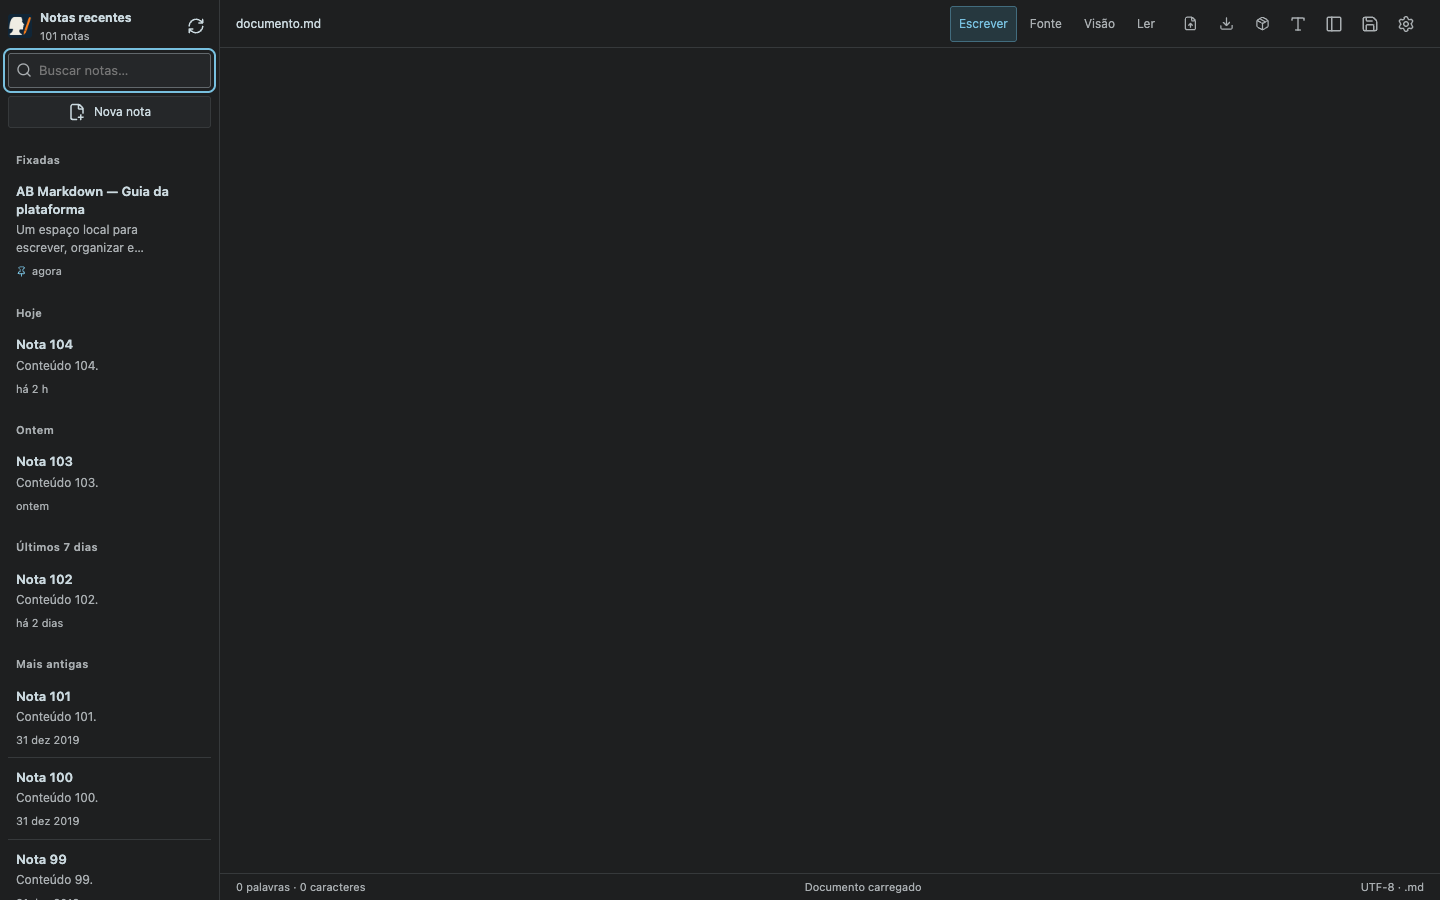
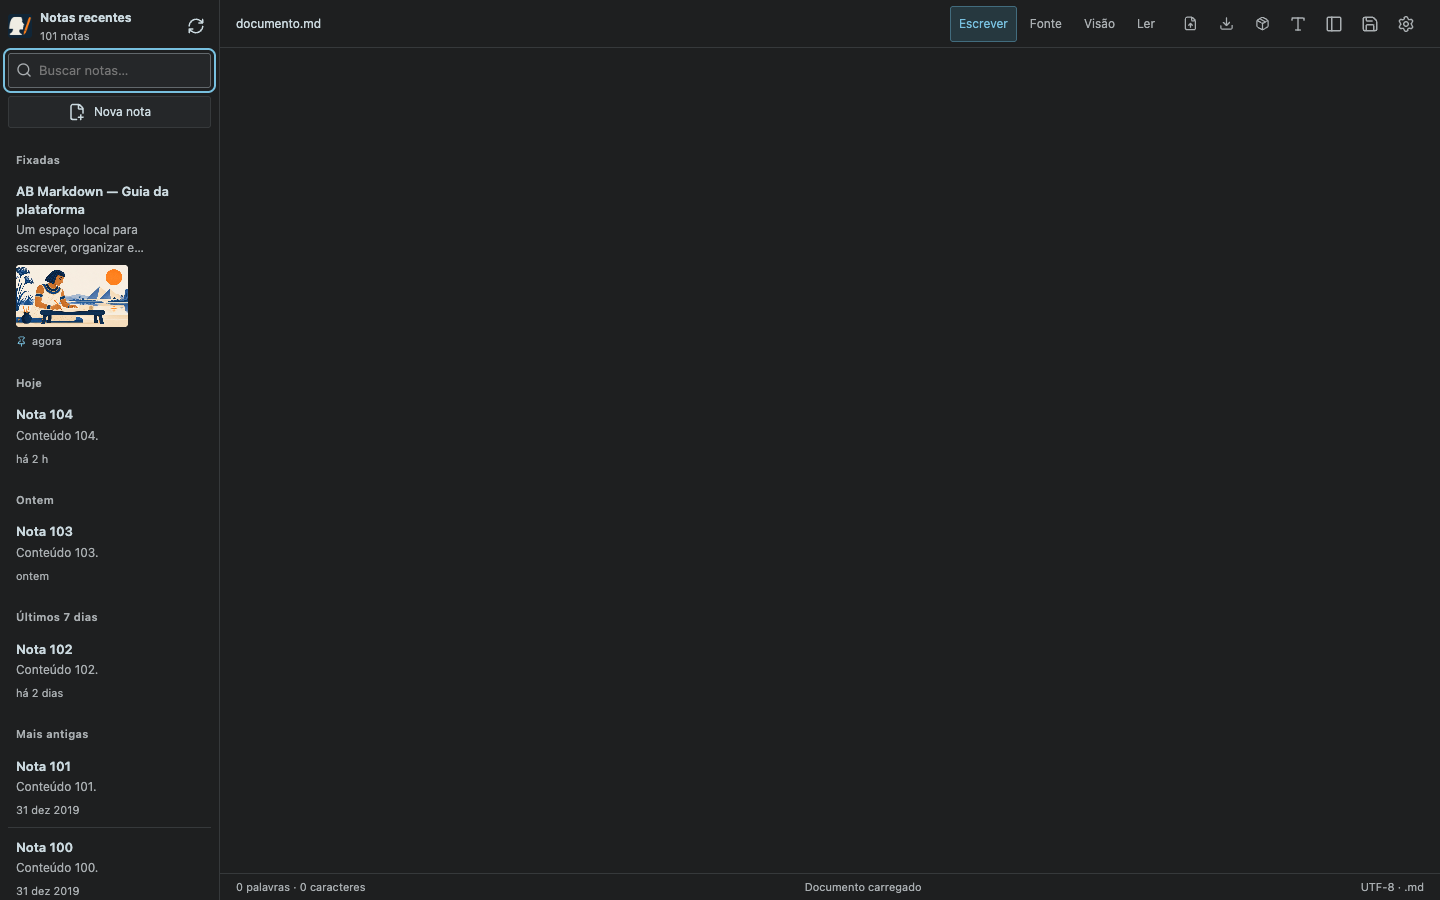
feat: add welcome illustration and lazy note image previews

Changed region(s): [[0.0, 0.28, 0.0938, 0.9956]]

diff --git a/tests/sidebar.spec.ts b/tests/sidebar.spec.ts
@@ -17,7 +17,7 @@ for(const viewport of [{name:'desktop',width:1440,height:900},{name:'mobile',wid
    const brand=page.locator('.notes-logo');await expect(brand).toBeVisible();await expect(brand).toHaveAttribute('src','/icons/profile-v3/scribe-64.png');
    expect(await brand.evaluate((el:HTMLImageElement)=>el.complete&&el.naturalWidth===64)).toBe(true);
    const favicon=page.locator('link[rel="icon"][type="image/png"]');await expect(favicon).toHaveAttribute('href','/icons/profile-v3/scribe-32.png');expect((await page.request.get((await favicon.getAttribute('href'))!)).status()).toBe(200);
-   const sidebar=page.getByRole('complementary',{name:'Notas recentes'});const recent=sidebar.locator('nav section:not([aria-label="Fixadas"])');const pinned=sidebar.getByRole('region',{name:'Fixadas',exact:true});await expect(pinned.locator('strong').first()).toHaveText('AB Markdown — Guia da plataforma');await expect(recent.locator('li')).toHaveCount(100);await expect(recent.locator('strong').first()).toHaveText('Nota 104');await expect(recent.locator('strong').last()).toHaveText('Nota 5');
+   const sidebar=page.getByRole('complementary',{name:'Notas recentes'});const recent=sidebar.locator('nav section:not([aria-label="Fixadas"])');const pinned=sidebar.getByRole('region',{name:'Fixadas',exact:true});await expect(pinned.locator('strong').first()).toHaveText('AB Markdown — Guia da plataforma');await expect(pinned.locator('img')).toBeVisible();expect(await pinned.locator('img').evaluate((el:HTMLImageElement)=>el.complete&&el.naturalWidth>0)).toBe(true);await expect(recent.locator('li')).toHaveCount(100);await expect(recent.locator('strong').first()).toHaveText('Nota 104');await expect(recent.locator('strong').last()).toHaveText('Nota 5');
    await sidebar.getByRole('button',{name:'Fixar note-104.md',exact:true}).click();await expect(pinned.locator('strong')).toHaveText(['AB Markdown — Guia da plataforma','Nota 104']);
    await sidebar.getByRole('button',{name:'Desafixar note-104.md',exact:true}).click();await expect(pinned.locator('strong')).toHaveCount(1);
    await expect(sidebar.getByRole('heading',{name:'Hoje',exact:true})).toBeVisible();await expect(sidebar.getByRole('heading',{name:'Ontem',exact:true})).toBeVisible();await expect(sidebar.getByRole('heading',{name:'Últimos 7 dias',exact:true})).toBeVisible();
@@ -32,7 +32,7 @@ for(const viewport of [{name:'desktop',width:1440,height:900},{name:'mobile',wid
    await expect(recent.locator('.note-preview').first()).toContainText('Conteúdo 104');
    expect(await page.evaluate(()=>document.documentElement.scrollHeight<=innerHeight)).toBe(true);
    await page.screenshot({path:`docs/evidence/${viewport.name}-recent-notes-dark.png`,fullPage:true});
-   await pinned.getByRole('button',{name:'AB-Markdown-Guia.md',exact:true}).click();await page.getByRole('button',{name:'Ler',exact:true}).click();await expect(page.locator('article')).toContainText('Roadmap previsto');
+   await pinned.getByRole('button',{name:'AB-Markdown-Guia.md',exact:true}).click();await page.getByRole('button',{name:'Ler',exact:true}).click();await expect(page.locator('article')).toContainText('Roadmap previsto');await expect(page.locator('article img')).toBeVisible();expect(await page.locator('article img').evaluate((el:HTMLImageElement)=>el.complete&&el.naturalWidth>0)).toBe(true);
    expect(await page.locator('article').evaluate(el=>getComputedStyle(el).fontFamily)).not.toContain('mono');
    await page.screenshot({path:`docs/evidence/${viewport.name}-guide-reading-dark.png`,fullPage:true});
    if(viewport.name==='mobile')await page.getByRole('button',{name:'Mostrar notas recentes'}).click();

diff --git a/src/main.tsx b/src/main.tsx
@@ -2,6 +2,7 @@ import { StrictMode, useCallback, useEffect, useRef, useState } from 'react';
 import { createRoot } from 'react-dom/client';
 import { FolderGit2, FolderOpen, Save, Upload, Sun, Moon, FilePlus2, Settings, X, Download, CloudOff, PanelLeft, FileText, RefreshCw, Search, Pin, PinOff } from 'lucide-react';
 import { MarkdownWorkbench } from './components/Markdown/MarkdownWorkbench';
+import { NoteThumbnail } from './NoteThumbnail';
 import { noteGroup, shortNoteDate } from './lib/noteDates';
 import { usePwa } from './usePwa';
 import { authorizedFetch } from './lib/session';
@@ -20,6 +21,8 @@ interface RecentNote {
   /** Markdown heading and short plain-text preview for the note list. */
   title?: string;
   preview?: string;
+  /** Whether the note contains a local image eligible for a lazy thumbnail. */
+  hasImage?: boolean;
 }
 interface NoteLibrary {
   /** Manually ordered pinned notes for the current checkout. */
@@ -391,7 +394,7 @@ function App() {
       {!repository.repository && <p className="notes-empty">Conecte um repositório nas configurações para listar suas notas.</p>}
       {repository.repository && !recentNotes.length && !pinnedNotes.length && <p className="notes-empty">{offline ? 'Abra o aplicativo local para carregar a lista.' : 'Nenhuma nota Markdown encontrada.'}</p>}
       <nav aria-label="100 notas mais recentes">{noteGroups.map(group => <section className="note-group" key={group.label} aria-label={group.label}><h3>{group.label}</h3><ol>{group.notes.map(note => <li className="note-row" key={note.name} data-note={note.name}>
-        <button className="open-note" type="button" disabled={busy || !draftReady || offline} aria-current={name === note.name && version ? 'page' : undefined} title={note.name} aria-label={note.name} onClick={() => void openNote(note.name)}><span><strong>{note.title || note.name.split('/').at(-1)}</strong>{note.preview && <span className="note-preview">{note.preview}</span>}<time dateTime={note.modifiedAt} title={new Date(note.modifiedAt).toLocaleString('pt-BR')}>{group.pinned && <Pin size={11} aria-label="Nota fixada"/>}{shortNoteDate(note.modifiedAt, dateClock)}</time></span></button>
+        <button className="open-note" type="button" disabled={busy || !draftReady || offline} aria-current={name === note.name && version ? 'page' : undefined} title={note.name} aria-label={note.name} onClick={() => void openNote(note.name)}><span><strong>{note.title || note.name.split('/').at(-1)}</strong>{note.preview && <span className="note-preview">{note.preview}</span>}{note.hasImage && <NoteThumbnail repository={repository.repository} name={note.name} modifiedAt={note.modifiedAt}/>}<time dateTime={note.modifiedAt} title={new Date(note.modifiedAt).toLocaleString('pt-BR')}>{group.pinned && <Pin size={11} aria-label="Nota fixada"/>}{shortNoteDate(note.modifiedAt, dateClock)}</time></span></button>
         <button className="pin-note" type="button" disabled={busy || offline} aria-label={`${group.pinned ? 'Desafixar' : 'Fixar'} ${note.name}`} title={group.pinned ? 'Desafixar nota' : 'Fixar nota'} onClick={() => void togglePin(note, !group.pinned)}>{group.pinned ? <PinOff size={14}/> : <Pin size={14}/>}</button>
       </li>)}</ol></section>)}</nav>
     </aside>}

diff --git a/src/NoteThumbnail.tsx b/src/NoteThumbnail.tsx
@@ -1,0 +1,36 @@
+import {useEffect, useRef, useState} from 'react';
+import {authorizedFetch} from './lib/session';
+interface Props {
+  /** Checkout identity prevents reusing an image after switching repositories. */
+  repository: string | null;
+  /** Safe repository-relative Markdown filename. */
+  name: string;
+  /** Note revision timestamp invalidates the preview after editing. */
+  modifiedAt: string;
+}
+/** Fetch private image bytes only as the note enters the independently scrolling list. */
+export function NoteThumbnail({repository, name, modifiedAt}: Props) {
+  const host=useRef<HTMLSpanElement>(null);
+  const [source,setSource]=useState('');
+  useEffect(()=>{
+    let active=true, objectUrl='';
+    setSource('');
+    const observer=new IntersectionObserver(entries=>{
+      if(!entries.some(entry=>entry.isIntersecting))return;
+      observer.disconnect();
+      void(async()=>{
+        try {
+          const response=await authorizedFetch(`thumbnail?name=${encodeURIComponent(name)}`);
+          if(!response.ok)return;
+          const image=await response.json();if(!image||!active)return;
+          const data=Uint8Array.from(atob(image.data),char=>char.charCodeAt(0));
+          objectUrl=URL.createObjectURL(new Blob([data],{type:image.mime}));
+          setSource(objectUrl);
+        }catch { /* Missing/offline images leave the note title and text available. */ }
+      })();
+    },{rootMargin:'120px'});
+    if(host.current)observer.observe(host.current);
+    return()=>{active=false;observer.disconnect();if(objectUrl)URL.revokeObjectURL(objectUrl);};
+  },[repository,name,modifiedAt]);
+  return <span ref={host} className="note-thumbnail">{source&&<img src={source} width="112" height="62" alt="Prévia da imagem da nota"/>}</span>;
+}

diff --git a/src/style.css b/src/style.css
@@ -150,3 +150,6 @@ body { font-family: var(--font-ui); }
 @media (hover: none) { .notes-sidebar nav .pin-note { opacity: 1; } }
 @media (max-width: 899px) { .notes-sidebar nav .pin-note { opacity: 1; width: 44px; min-height: 44px; } .notes-sidebar nav .open-note { padding-right: 44px; } }
 .notes-sidebar nav .open-note time svg { display: inline-block; margin: 0; color: var(--cyan); }
+.note-thumbnail { display: block; width: 112px; max-width: 100%; margin-top: 8px; }
+.note-thumbnail:empty { min-height: 1px; }
+.note-thumbnail img { display: block; width: 112px; max-width: 100%; height: 62px; object-fit: cover; border-radius: var(--radius-sm); }

diff --git a/docs/VALIDATION.md b/docs/VALIDATION.md
@@ -10,7 +10,7 @@ Ambiente: macOS Darwin 25.6.0, Apple Silicon. Aplicação instalada em `~/Applic
 - Abertura pelo ícone, resposta saudável do servidor em loopback e carregamento do editor.
 - Seleção de pasta real no diálogo nativo do macOS; retorno do caminho confirmado.
 - Cancelamento do diálogo pela API da aplicação instalada: HTTP 200, `directory: null`.
-- 25 testes HTTP com Git real: sessão/origem/host, conexão e listagem, texto/imagens, conflitos, caminhos inválidos/symlinks, gravações concorrentes, commit seletivo e push, proteção de stage, rejeição de credenciais na URL e clonagem HTTPS com CA local; save/commit/push automático, ausência de commits vazios, retry após falha de push sem commit duplicado, recuperação de hook, primeiro upstream e preferências persistidas em novo processo.
+- 27 testes HTTP com Git real: sessão/origem/host, conexão e listagem, texto/imagens, conflitos, caminhos inválidos/symlinks, gravações concorrentes, commit seletivo e push, proteção de stage, rejeição de credenciais na URL e clonagem HTTPS com CA local; save/commit/push automático, ausência de commits vazios, retry após falha de push sem commit duplicado, recuperação de hook, primeiro upstream e preferências persistidas em novo processo.
 - 8 jornadas Playwright: desktop 1440×900 e celular 390×844. Selecionar/cancelar pasta, conectar, escolher destino de clone, editar, inserir imagem, salvar, commit/push automáticos e reabrir com imagens; relógio do navegador simula ciclos de 1 e 2 minutos com Git/HTTP reais, nota obrigatória, cancelamento sem gravação, ⌘S e persistência das preferências.
 - Regressão do conflito: importação pelo seletor, abertura pela lista, arquivo sem histórico Git, salvamento repetido após perda de resposta, hash original válido/inválido, cópia de recuperação, substituição com backup e rejeição de confirmação desatualizada.
 - Interface focada no editor após configuração, inclusive ao recarregar; engrenagem abre configurações; Escape fecha sem perder o texto; gravação disponível na barra e por ⌘S.
@@ -44,7 +44,7 @@ Jornadas desktop/mobile criam 105 notas, verificam exatamente 100 entradas orden
 
 Cabeçalho reduzido de 96 para 48 px; lateral de 264 para 220 px; barras de ajuda removidas visualmente e formatação recolhida por padrão. Importação/exportação mantêm nomes acessíveis e dicas, usando botões de ícone. Lista e documento têm rolagem independente e o shell cabe em 100dvh, sem rolagem da página. A lista usa título do Markdown e trecho textual obtidos de até 8 KB por arquivo, com leitura em lotes de 32; conteúdo aparece como texto, sem execução de HTML.
 
-As 8 jornadas de navegador passaram nos dois tamanhos, incluindo abrir/recolher formatação, lista com título/trecho, limite de altura da janela e os fluxos anteriores de edição/Git/offline. Os 25 testes HTTP também passaram. Capturas atualizadas nos temas claro e escuro.
+As 8 jornadas de navegador passaram nos dois tamanhos, incluindo abrir/recolher formatação, lista com título/trecho, limite de altura da janela e os fluxos anteriores de edição/Git/offline. Os 27 testes HTTP também passaram. Capturas atualizadas nos temas claro e escuro.
 
 ## Remoção da faixa superior e busca
 
@@ -52,6 +52,10 @@ Faixa de marca acima do workspace removida; logo mantida apenas no cabeçalho da
 
 ## Fixadas, guia inicial, períodos e tipografia
 
-25 testes HTTP aprovados, incluindo criação única do guia com commit/push a remoto Git real, ausência de novo commit ao reinicializar, pins persistidos e isolados por checkout, desafixar sem alterar HEAD e rejeição de caminho inválido. As 8 jornadas completas passaram; as 2 jornadas da lateral foram ampliadas e repetidas para validar períodos (hoje/ontem/últimos 7 dias), “há 2 h”, guia como primeira fixada, fixar/desafixar, busca e leitura sem fonte monoespaçada.
+27 testes HTTP aprovados, incluindo criação única do guia com commit/push a remoto Git real, ausência de novo commit ao reinicializar, pins persistidos e isolados por checkout, desafixar sem alterar HEAD e rejeição de caminho inválido. As 8 jornadas completas passaram; as 2 jornadas da lateral foram ampliadas e repetidas para validar períodos (hoje/ontem/últimos 7 dias), “há 2 h”, guia como primeira fixada, fixar/desafixar, busca e leitura sem fonte monoespaçada.
 
 Paleta local suave nos dois temas, alterada nos tokens. Contraste na superfície selecionada, o caso mais desfavorável: tema escuro texto 9,64:1 / secundário 5,75:1 / acento 6,38:1; tema claro texto 9,71:1 / secundário 4,77:1 / acento 5,52:1. Código e Fonte preservam monoespaçada. Capturas de leitura do guia e lista com grupos em desktop e celular.
+
+## Imagem de boas-vindas e miniatura da nota
+
+27 testes HTTP e 8 jornadas de navegador aprovados. Validação da miniatura carregada na lista e imagem aberta em leitura, JPG junto ao Markdown no remoto Git, migração única de guia existente preservando texto editado, rejeição de traversal/SVG/symlinks e ausência de busca remota. A miniatura usa IntersectionObserver e uma chamada autenticada separada; não carrega imagens de todas as notas de uma vez. Capturas de guia e lista atualizadas em desktop/mobile.

diff --git a/docs/ICON.md b/docs/ICON.md
@@ -9,3 +9,11 @@ Prompt utilizado:
 > Create an ultra-simple app logo designed FIRST for 16 by 16 pixels. Square solid midnight navy background #102231. Exactly TWO huge contrasting graphic elements: on the LEFT, one solid IVORY #f1eee5 ancient Egyptian human HEAD PROFILE facing right with a flat-topped Egyptian bob wig, angular prominent nose and chin; on the RIGHT, one thick ORANGE #ff7a18 REED PEN tilted diagonally with a pointed writing tip. Head occupies 60 percent of square width and 85 percent of square height. Orange pen occupies remaining 25 percent width and 80 percent height. Shapes almost fill the square, only 6 percent outer margin. The head is a single unbroken ivory silhouette with no internal details. This is a contemporary Egyptian scribe emblem reduced to profile plus writing tool. Strict flat vector geometry, only ivory and orange on navy. NO BODY, no hands, no paper, no scroll, no sitting person, no eyes, no face lines, no hair stripes, no gradients, no shadows, no texture, no letters, no text, no frame. Extremely bold silhouette with broad features and clear negative space. Make it readable at favicon size. Deliver just the square logo.
 
 `npm run icons` deriva PNGs de 16 a 1024 px, variantes maskable, Apple Touch Icon e favicon. O instalador gera o `.icns` e o aplica ao aplicativo e ao alias nativo da Mesa.
+
+## Ilustração de boas-vindas
+
+Arte gerada com OpenAI ImageGen, exportada como [escriba-welcome-v1.jpg](../server/assets/escriba-welcome-v1.jpg) em 1200 × 600 px para inclusão no repositório de notas.
+
+Prompt utilizado:
+
+> Landscape welcome illustration for Escriba, a calm Markdown notes app inspired by ancient Egyptian scribes. Wide editorial banner composition, approximately 2:1. A friendly dignified Egyptian scribe with a short traditional dark blue wig, seated at a low desk writing on an open ivory papyrus with a warm orange reed pen. Clean contemporary flat illustration, rounded generous shapes, simplified human figure, elegant minimal scene. Warm ivory background, deep lapis and midnight navy character and desk accents, vivid orange writing tool and one orange sun disk. A small papyrus plant and a few simple geometric lines suggest ancient Egypt; plenty of breathing space around the figure. Clear and appealing as a 112 pixel wide thumbnail. Restrained palette related to SPHINX: #102231 navy, #244b83 lapis, #ff7a18 orange, #f1eee5 ivory. No text, no letters, no watermark, no sparkles, no stars, no hieroglyphs. Polished vector-like editorial welcome art, not photorealistic, not an app interface, not a logo mockup.

diff --git a/README.md b/README.md
@@ -99,3 +99,5 @@ A lista contém até 100 notas recentes **além das fixadas**. A ordem de fixaç
 Na primeira abertura de cada repositório, o editor inclui e fixa **AB-Markdown-Guia.md**, com apresentação, funcionalidades e roadmap. A criação tenta commit/push automaticamente; se não conseguir, o arquivo local permanece e o editor informa a falha. Arquivos já existentes nunca são substituídos: outro nome é escolhido. A nota pode ser editada e desafixada como qualquer outra. O [conteúdo do guia](server/guide.md) também está neste repositório.
 
 O roadmap prevê Google Drive e novas opções de temas, sem datas anunciadas. A troca entre claro e escuro já está disponível em **Configurações → Aparência**. A leitura usa fonte de sistema sem serifa e cores suaves; código e modo Fonte continuam monoespaçados.
+
+O guia inicial inclui uma ilustração de boas-vindas salva em `assets/escriba-welcome-v1.jpg`. Ela aparece no documento e como miniatura na lista. Outras notas também exibem a primeira imagem local encontrada nos primeiros 8 KB de Markdown. As miniaturas carregam quando entram na área visível, pela API local autenticada; imagens externas e SVG não são buscados/executados. Ao atualizar um guia já criado, o editor insere a imagem uma única vez, preserva o restante do conteúdo e sincroniza Markdown + JPG no Git.

diff --git a/server/guide.md b/server/guide.md
@@ -1,5 +1,7 @@
 # AB Markdown — Guia da plataforma
 
+![Boas-vindas ao Escriba — um escriba egípcio escrevendo em papiro](assets/escriba-welcome-v1.jpg)
+
 Um espaço local para escrever, organizar e versionar notas Markdown no seu próprio repositório Git.
 
 ## Como começar
